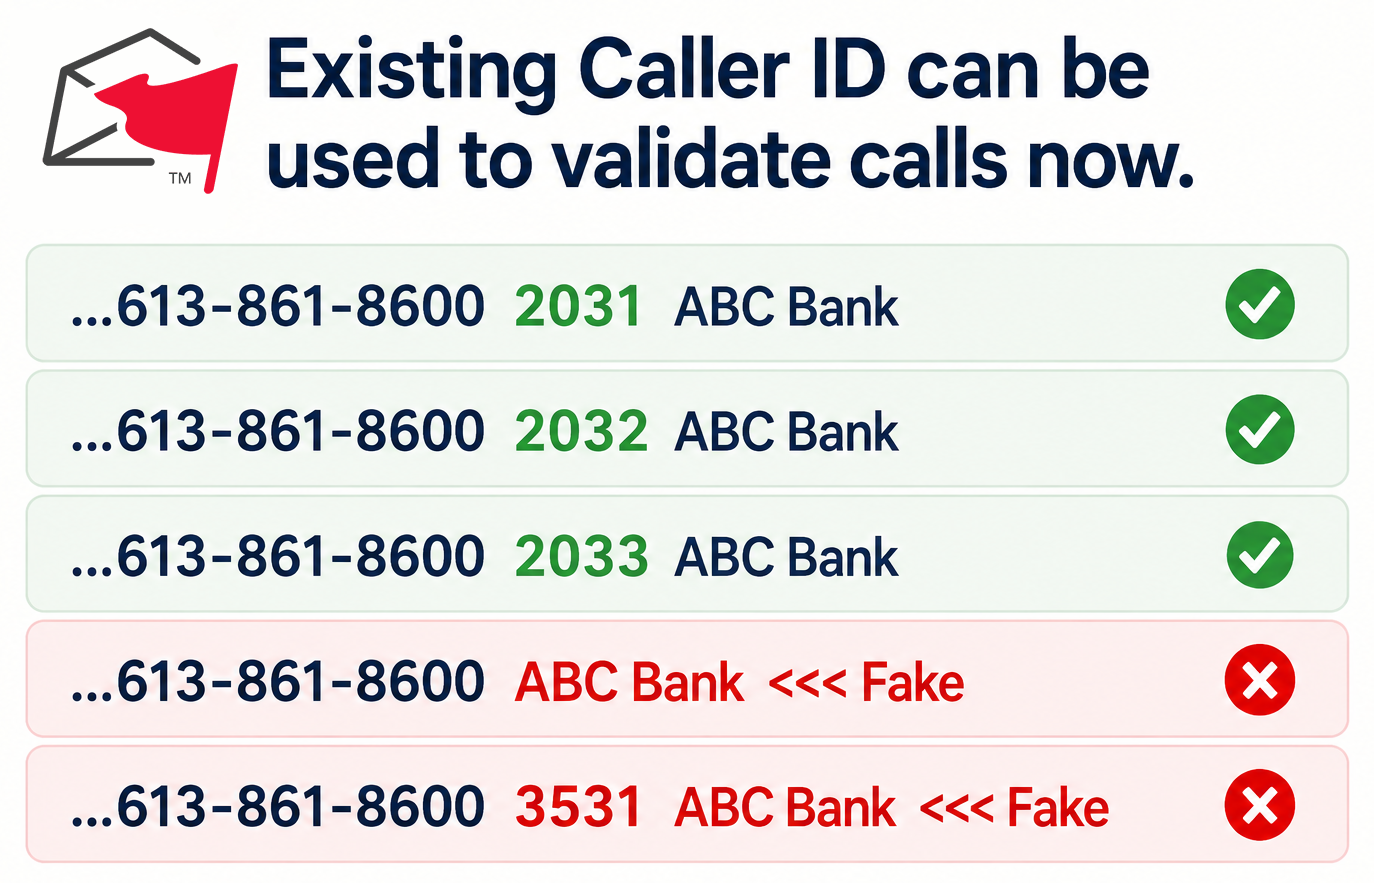
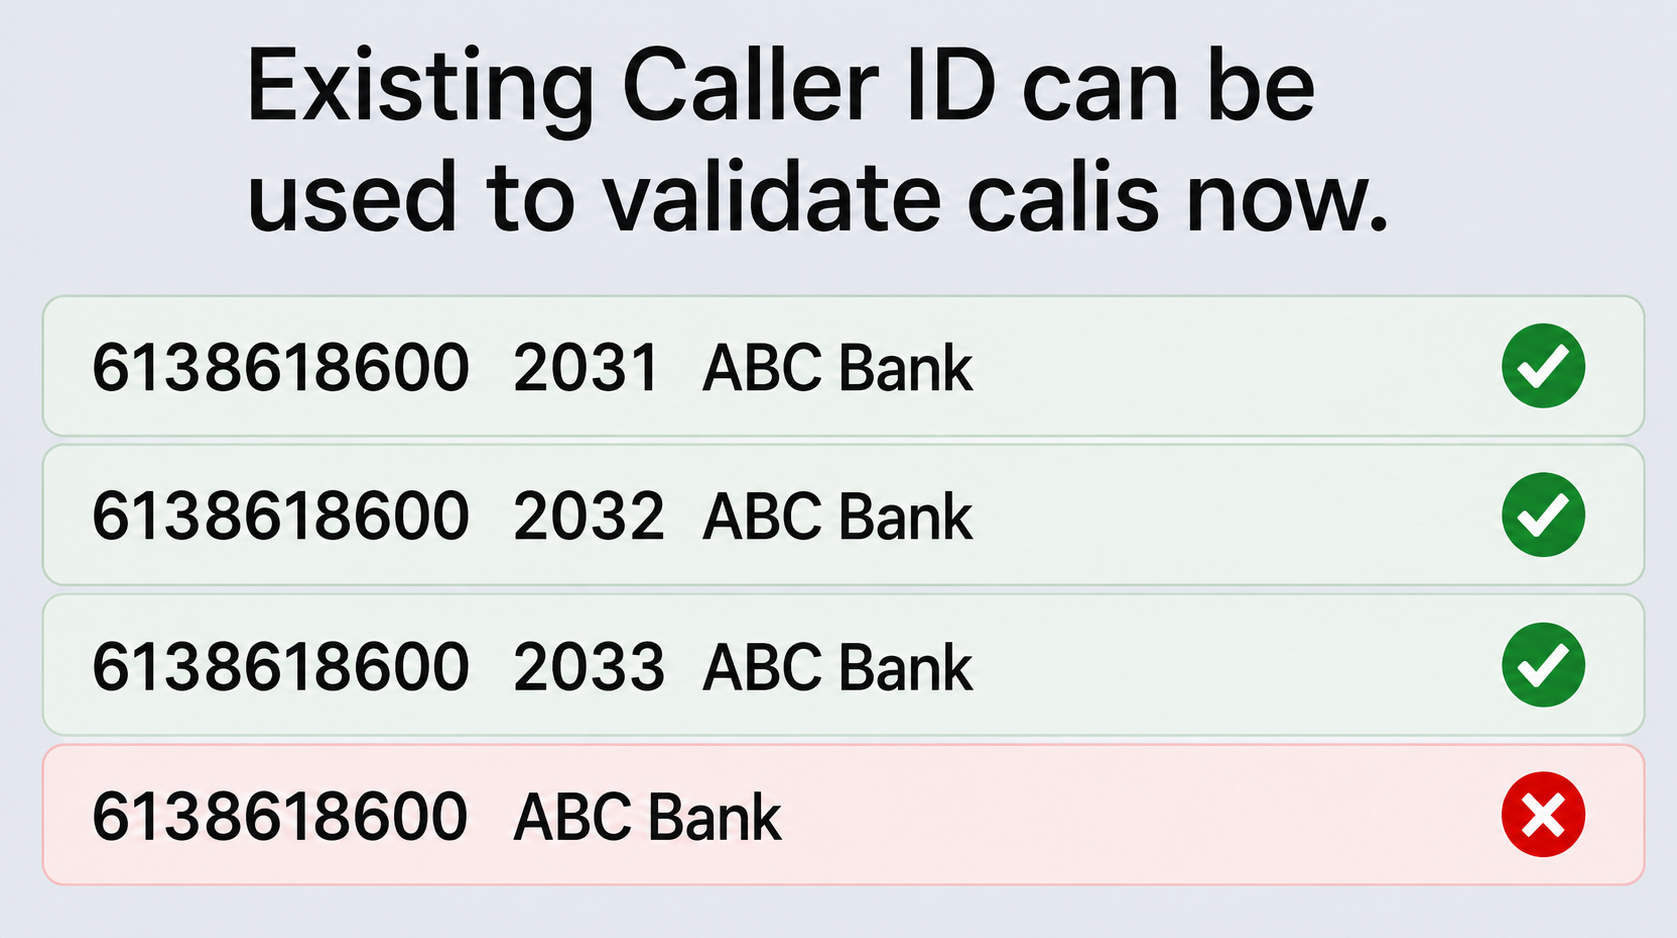
Telecom: equal-size, fitted hero images; rounded Caller ID card; asset updates
- Telecoms/Regulators, Existing Caller ID, and granny images now share a
  fixed row height and fit evenly within the ^0001 pane
- Existing Caller ID image gets rounded corners
- Pick up latest source art for the hero images

diff --git a/src/pages/join/Telecom.jsx b/src/pages/join/Telecom.jsx
@@ -23,31 +23,31 @@ export default function Telecom() {
         }}
       >
         <SectionCounter value="^0001" />
-        <div className="mx-auto flex max-w-[1800px] flex-col items-center justify-center gap-10 lg:flex-row lg:flex-nowrap lg:items-center lg:justify-center lg:gap-24">
+        <div className="mx-auto flex max-w-[1800px] flex-col items-stretch justify-center gap-6 sm:gap-8 lg:h-[300px] lg:flex-row lg:flex-nowrap lg:items-stretch lg:justify-center">
           {/* 1 — heading + intro */}
-          <div className="lg:max-w-[540px]">
+          <div className="flex h-[220px] items-center justify-center lg:h-full lg:flex-1">
             <img
               src="/assets/images/Telecoms%20and%20regulators.png"
               alt="Telecoms and Regulators — Help stop Call Spoofing"
-              className="h-auto w-full object-contain"
+              className="h-full w-auto max-w-full object-contain"
             />
           </div>
 
           {/* 2 — Caller ID list */}
-          <div className="lg:max-w-[500px]">
+          <div className="flex h-[220px] items-center justify-center lg:h-full lg:flex-1">
             <img
               src="/assets/images/existing%20caller%20id.png"
               alt="Existing Caller ID can be used to validate calls now."
-              className="h-auto w-full object-contain"
+              className="h-full w-auto max-w-full rounded-2xl object-contain"
             />
           </div>
 
           {/* 3 — granny image */}
-          <div className="flex w-full max-w-[300px] justify-center sm:max-w-[370px] lg:w-[370px] lg:shrink-0">
+          <div className="flex h-[220px] items-center justify-center lg:h-full lg:flex-1">
             <img
               src="/assets/images/granny image.png"
               alt="User receiving an authenticated call"
-              className="h-auto w-full object-contain"
+              className="h-full w-auto max-w-full rounded-2xl object-cover"
             />
           </div>
         </div>
